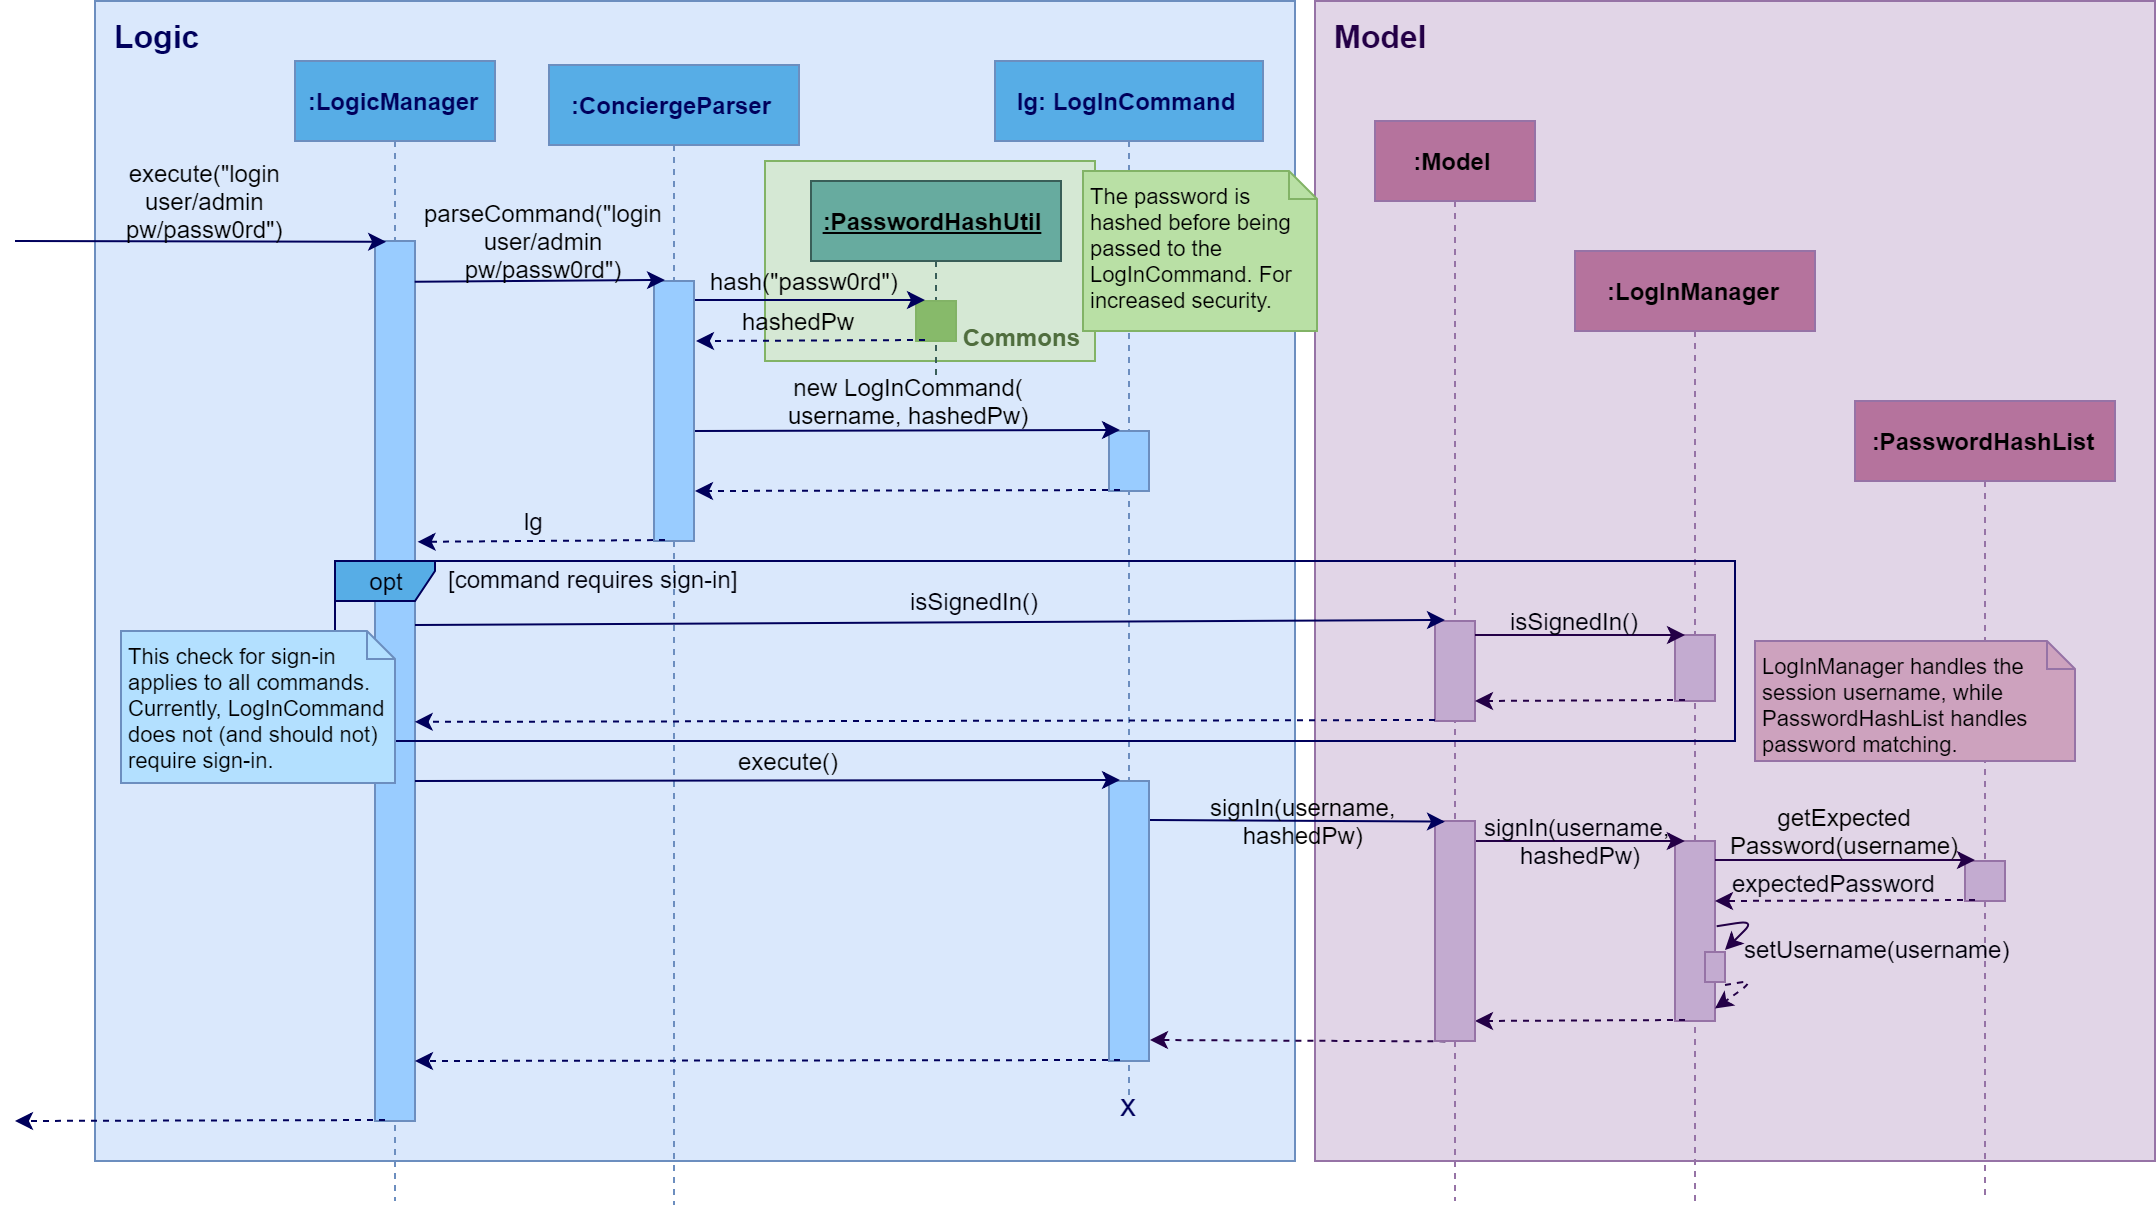
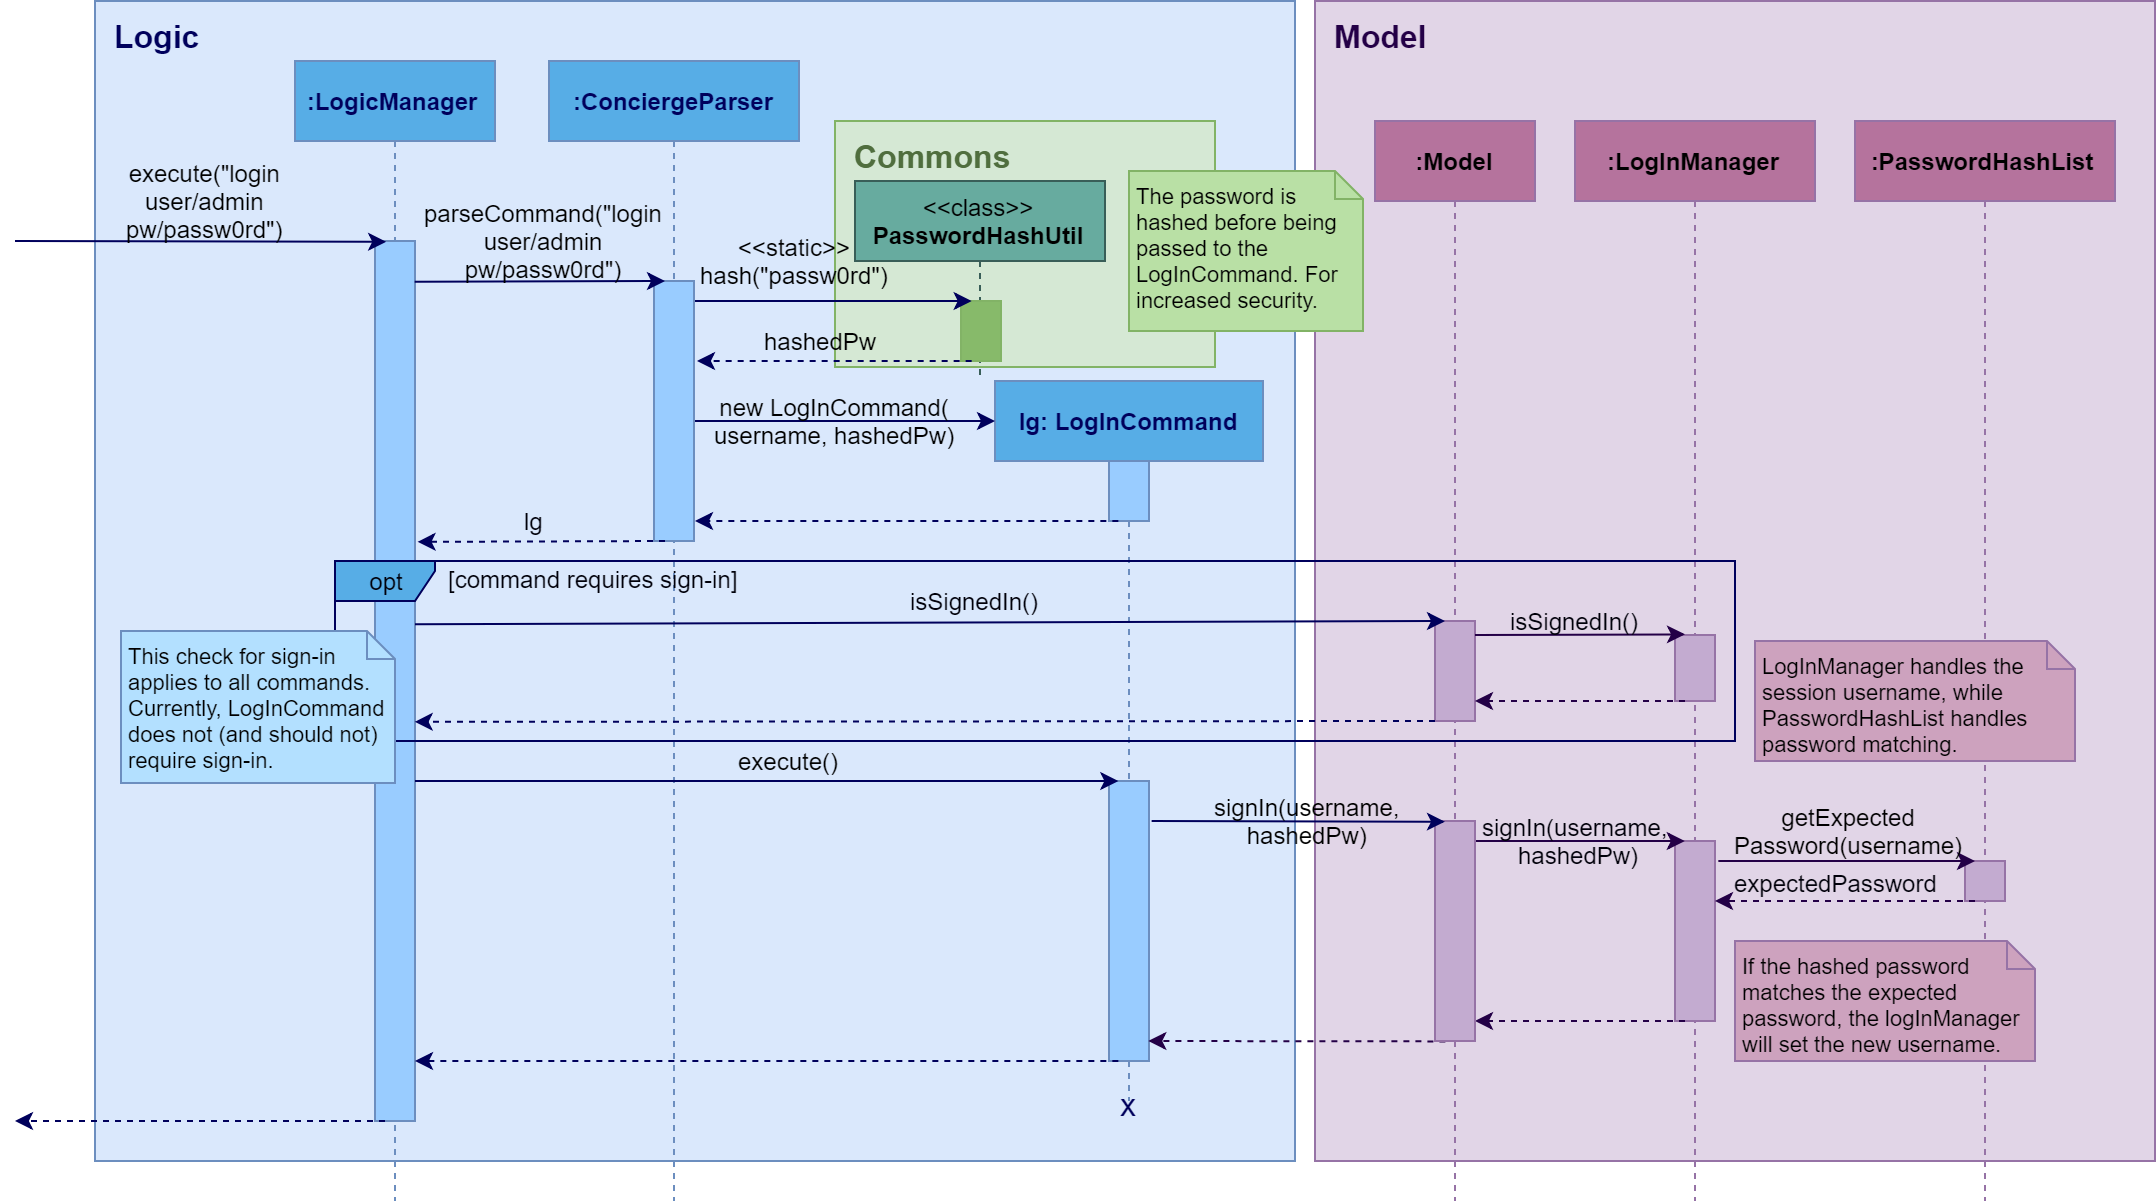
Update documentation (#260)
* Update diagrams

* UserGuide: update undoable commands

* Update grammar

diff --git a/src/main/java/seedu/address/logic/parser/PasswordHashUtil.java b/src/main/java/seedu/address/logic/parser/PasswordHashUtil.java
@@ -24,7 +24,8 @@ public class PasswordHashUtil {
                     digest.digest(password.getBytes(StandardCharsets.UTF_8));
             return bytesToHex(encodedHash);
         } catch (NoSuchAlgorithmException e) {
-            // TODO: Handle this exception. By right, it is a default program
+            // TODO: Handle this exception. By right, it is a default program by MessageDigest.
+            // We supply a valid String as algorithm. RuntimeExceptions not expected.
             return "";
         }
     }
